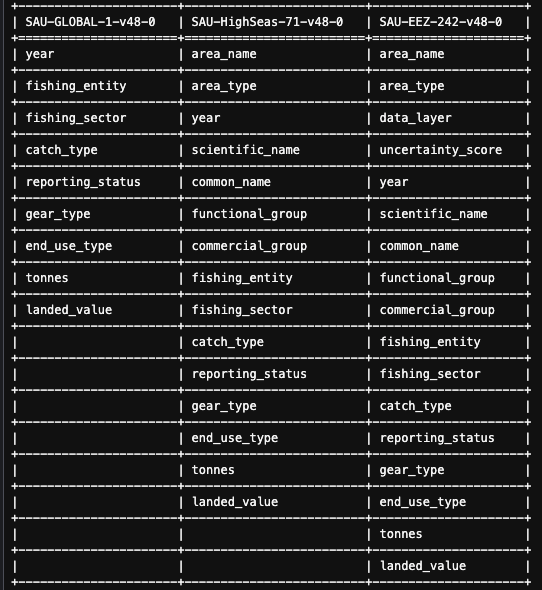
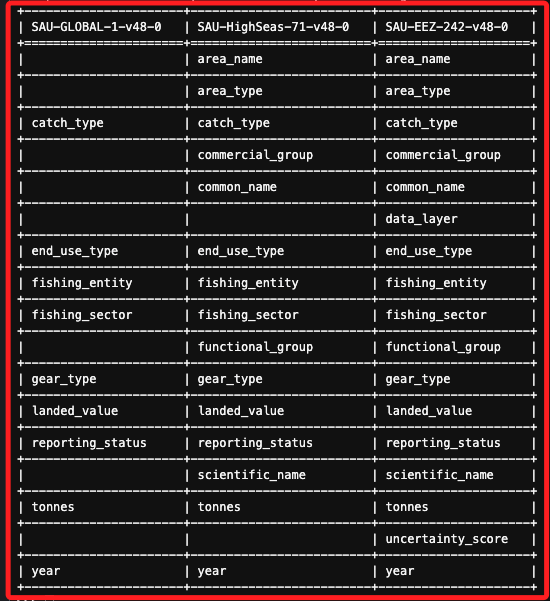
Commit on 2024-10-10 03:03:36

Changed region(s): [[0.0, 0.0, 1.0, 1.0]]

diff --git a/01_課程筆記/00_Lab/95432/Labx_Capstone project/Task03_轉換文件.md b/01_課程筆記/00_Lab/95432/Labx_Capstone project/Task03_轉換文件.md
@@ -58,24 +58,19 @@ _進入 Cloud9_
     columns_highseas = df_highseas.columns.tolist()
     columns_eez = df_eez.columns.tolist()
 
-    # 整理成表格格式進行比較
-    comparison_data = {
-        "SAU-GLOBAL-1-v48-0": columns_global,
-        "SAU-HighSeas-71-v48-0": columns_highseas,
-        "SAU-EEZ-242-v48-0": columns_eez
-    }
+    # 創建一個欄位名稱的集合，以確保所有唯一的欄位名稱都會被比較
+    all_columns = sorted(set(columns_global + columns_highseas + columns_eez))
 
-    # 將欄位名稱整理成相同的行數，空缺部分補上空字串
-    max_len = max(len(columns_global), len(columns_highseas), len(columns_eez))
-    columns_global += [""] * (max_len - len(columns_global))
-    columns_highseas += [""] * (max_len - len(columns_highseas))
-    columns_eez += [""] * (max_len - len(columns_eez))
+    # 將每個欄位的名稱與對應的 CSV 文件進行匹配，沒有匹配的補空字串
+    global_match = [col if col in columns_global else "" for col in all_columns]
+    highseas_match = [col if col in columns_highseas else "" for col in all_columns]
+    eez_match = [col if col in columns_eez else "" for col in all_columns]
 
-    # 將結果表格化並輸出
-    table = list(zip(columns_global, columns_highseas, columns_eez))
+    # 構建表格進行展示
+    table = list(zip(global_match, highseas_match, eez_match))
     headers = ["SAU-GLOBAL-1-v48-0", "SAU-HighSeas-71-v48-0", "SAU-EEZ-242-v48-0"]
 
-    # 使用 tabulate 模組進行排版
+    # 使用 tabulate 進行表格化輸出
     print(tabulate(table, headers=headers, tablefmt="grid"))
     ```
 
